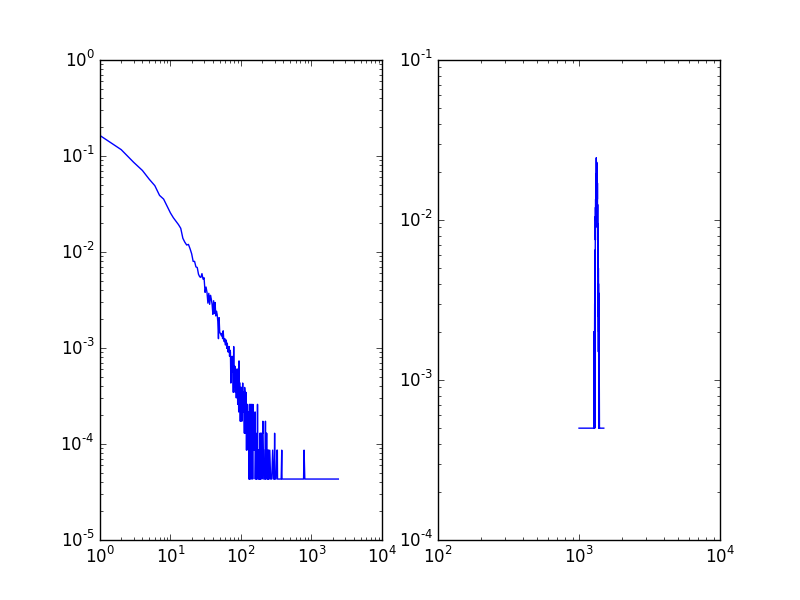
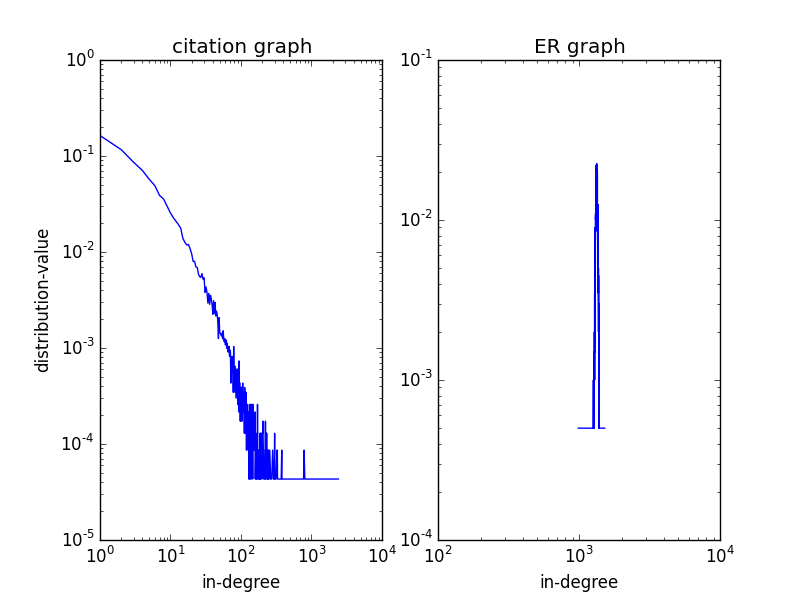
Modified picture for q2

diff --git a/src/citation_graph.py b/src/citation_graph.py
@@ -96,7 +96,12 @@ plt.figure()
 
 plt.subplot(121)
 plt.loglog(*zip(*pairs))
+plt.title("citation graph")
+plt.xlabel("in-degree")
+plt.ylabel("distribution-value")
 plt.subplot(122)
+plt.title("ER graph")
+plt.xlabel("in-degree")
 plt.loglog(*zip(*er_pairs))
 plt.show()
 
